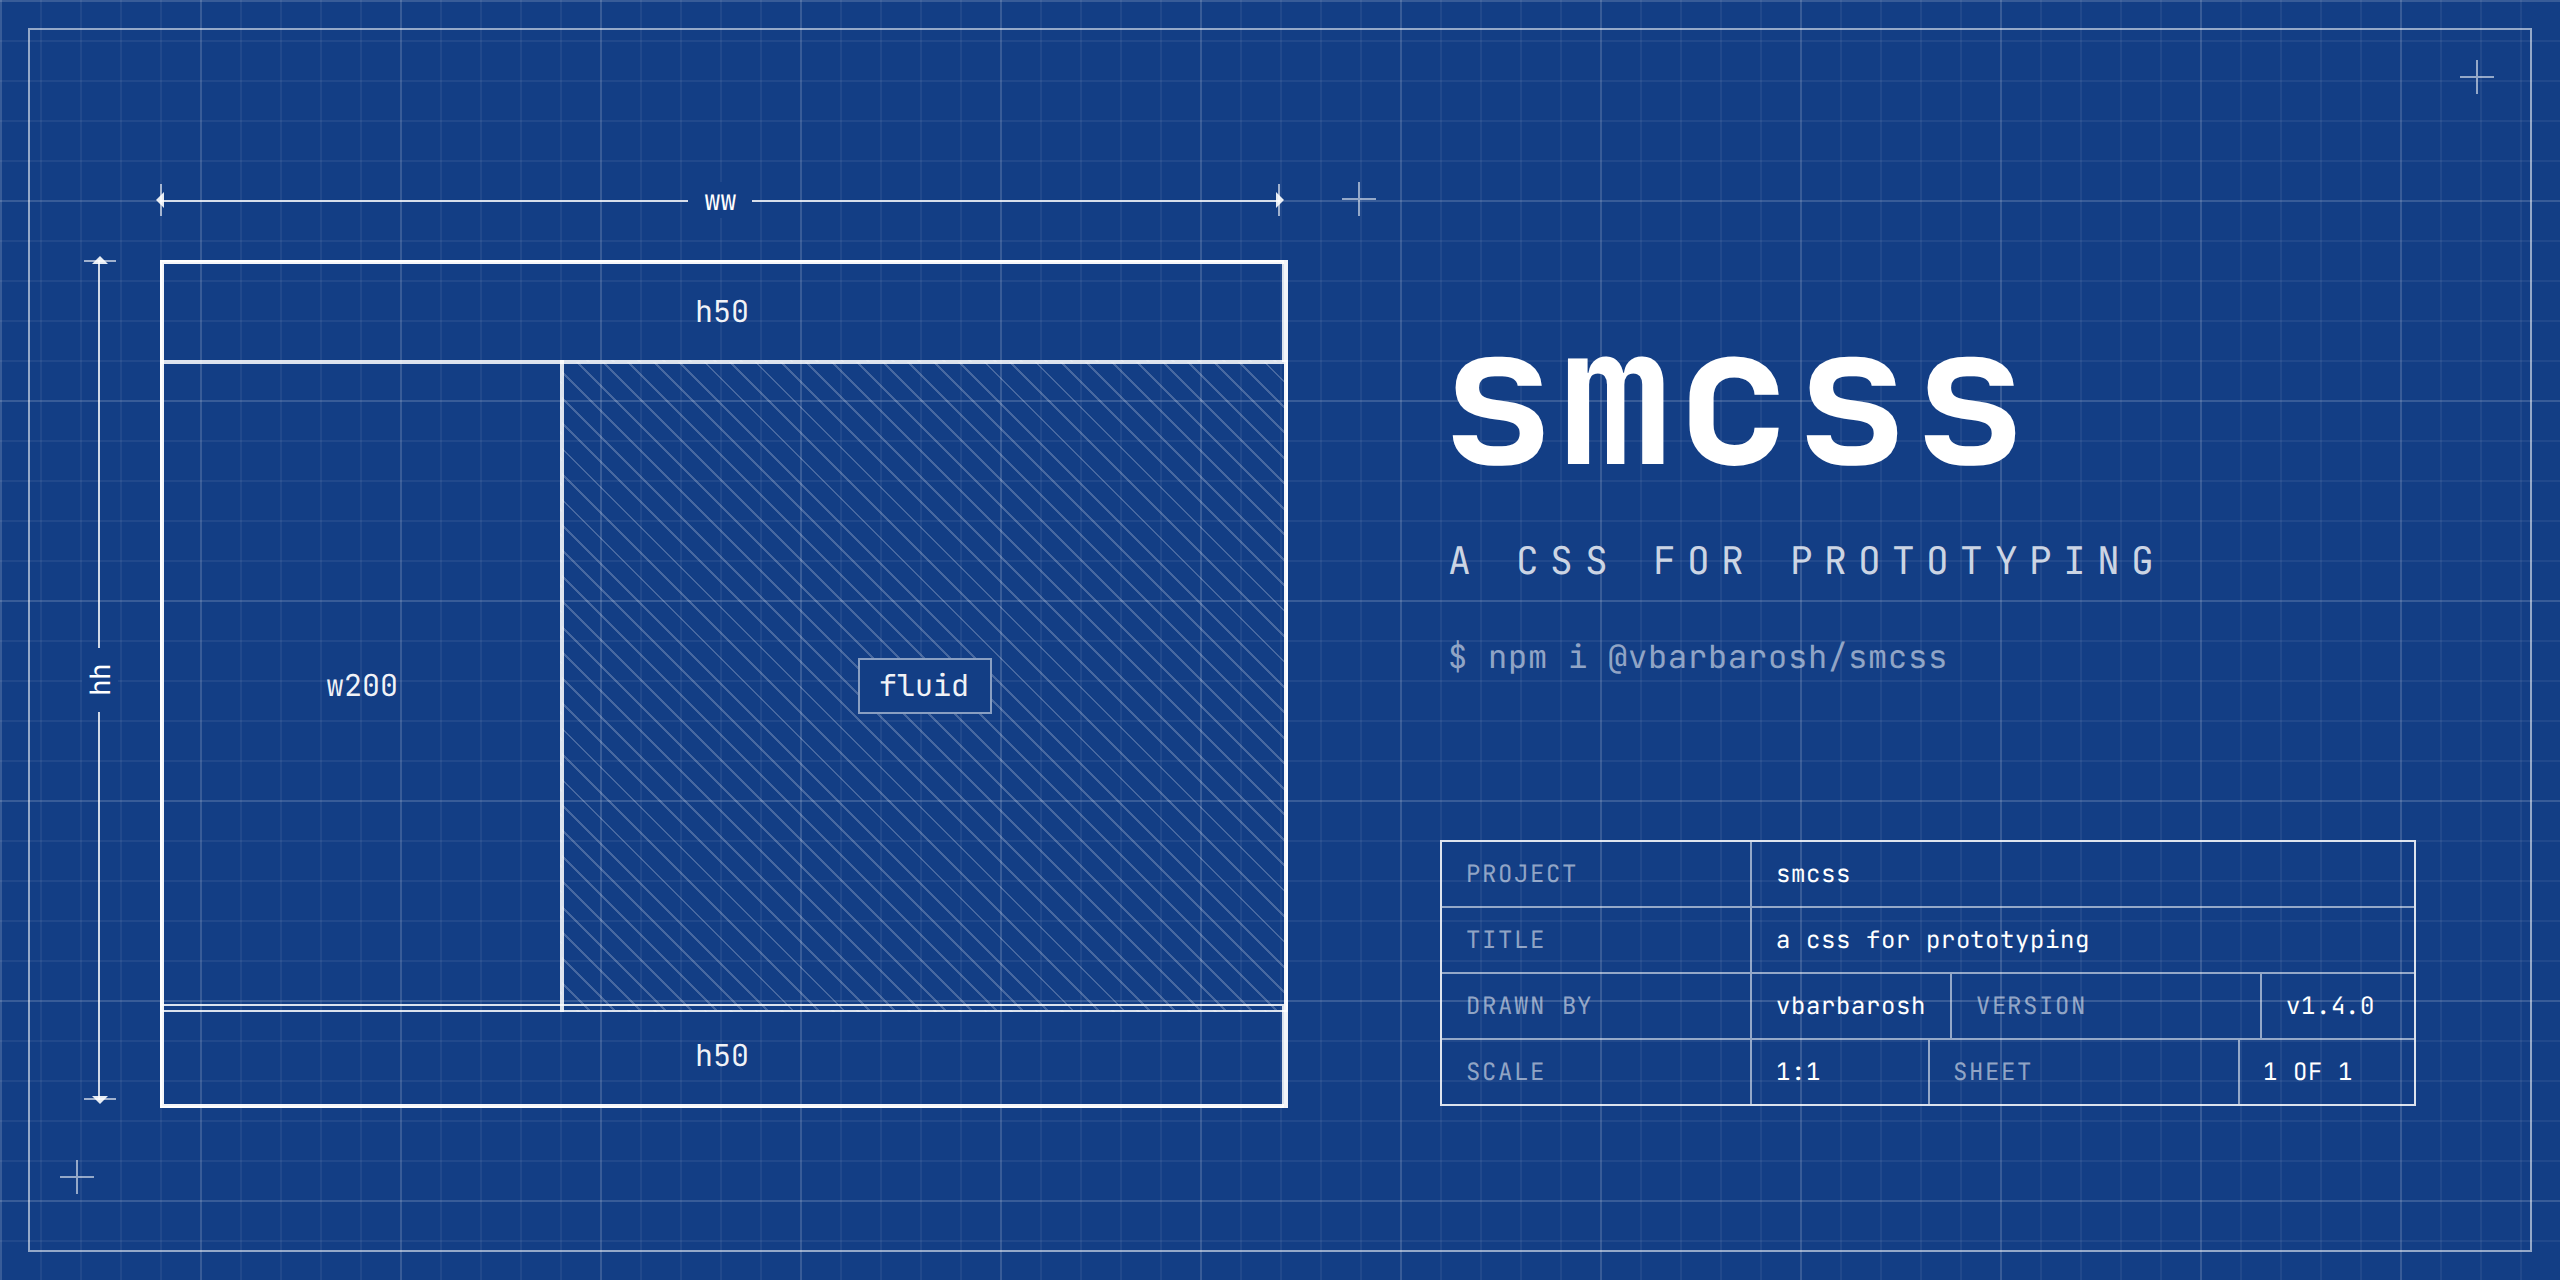
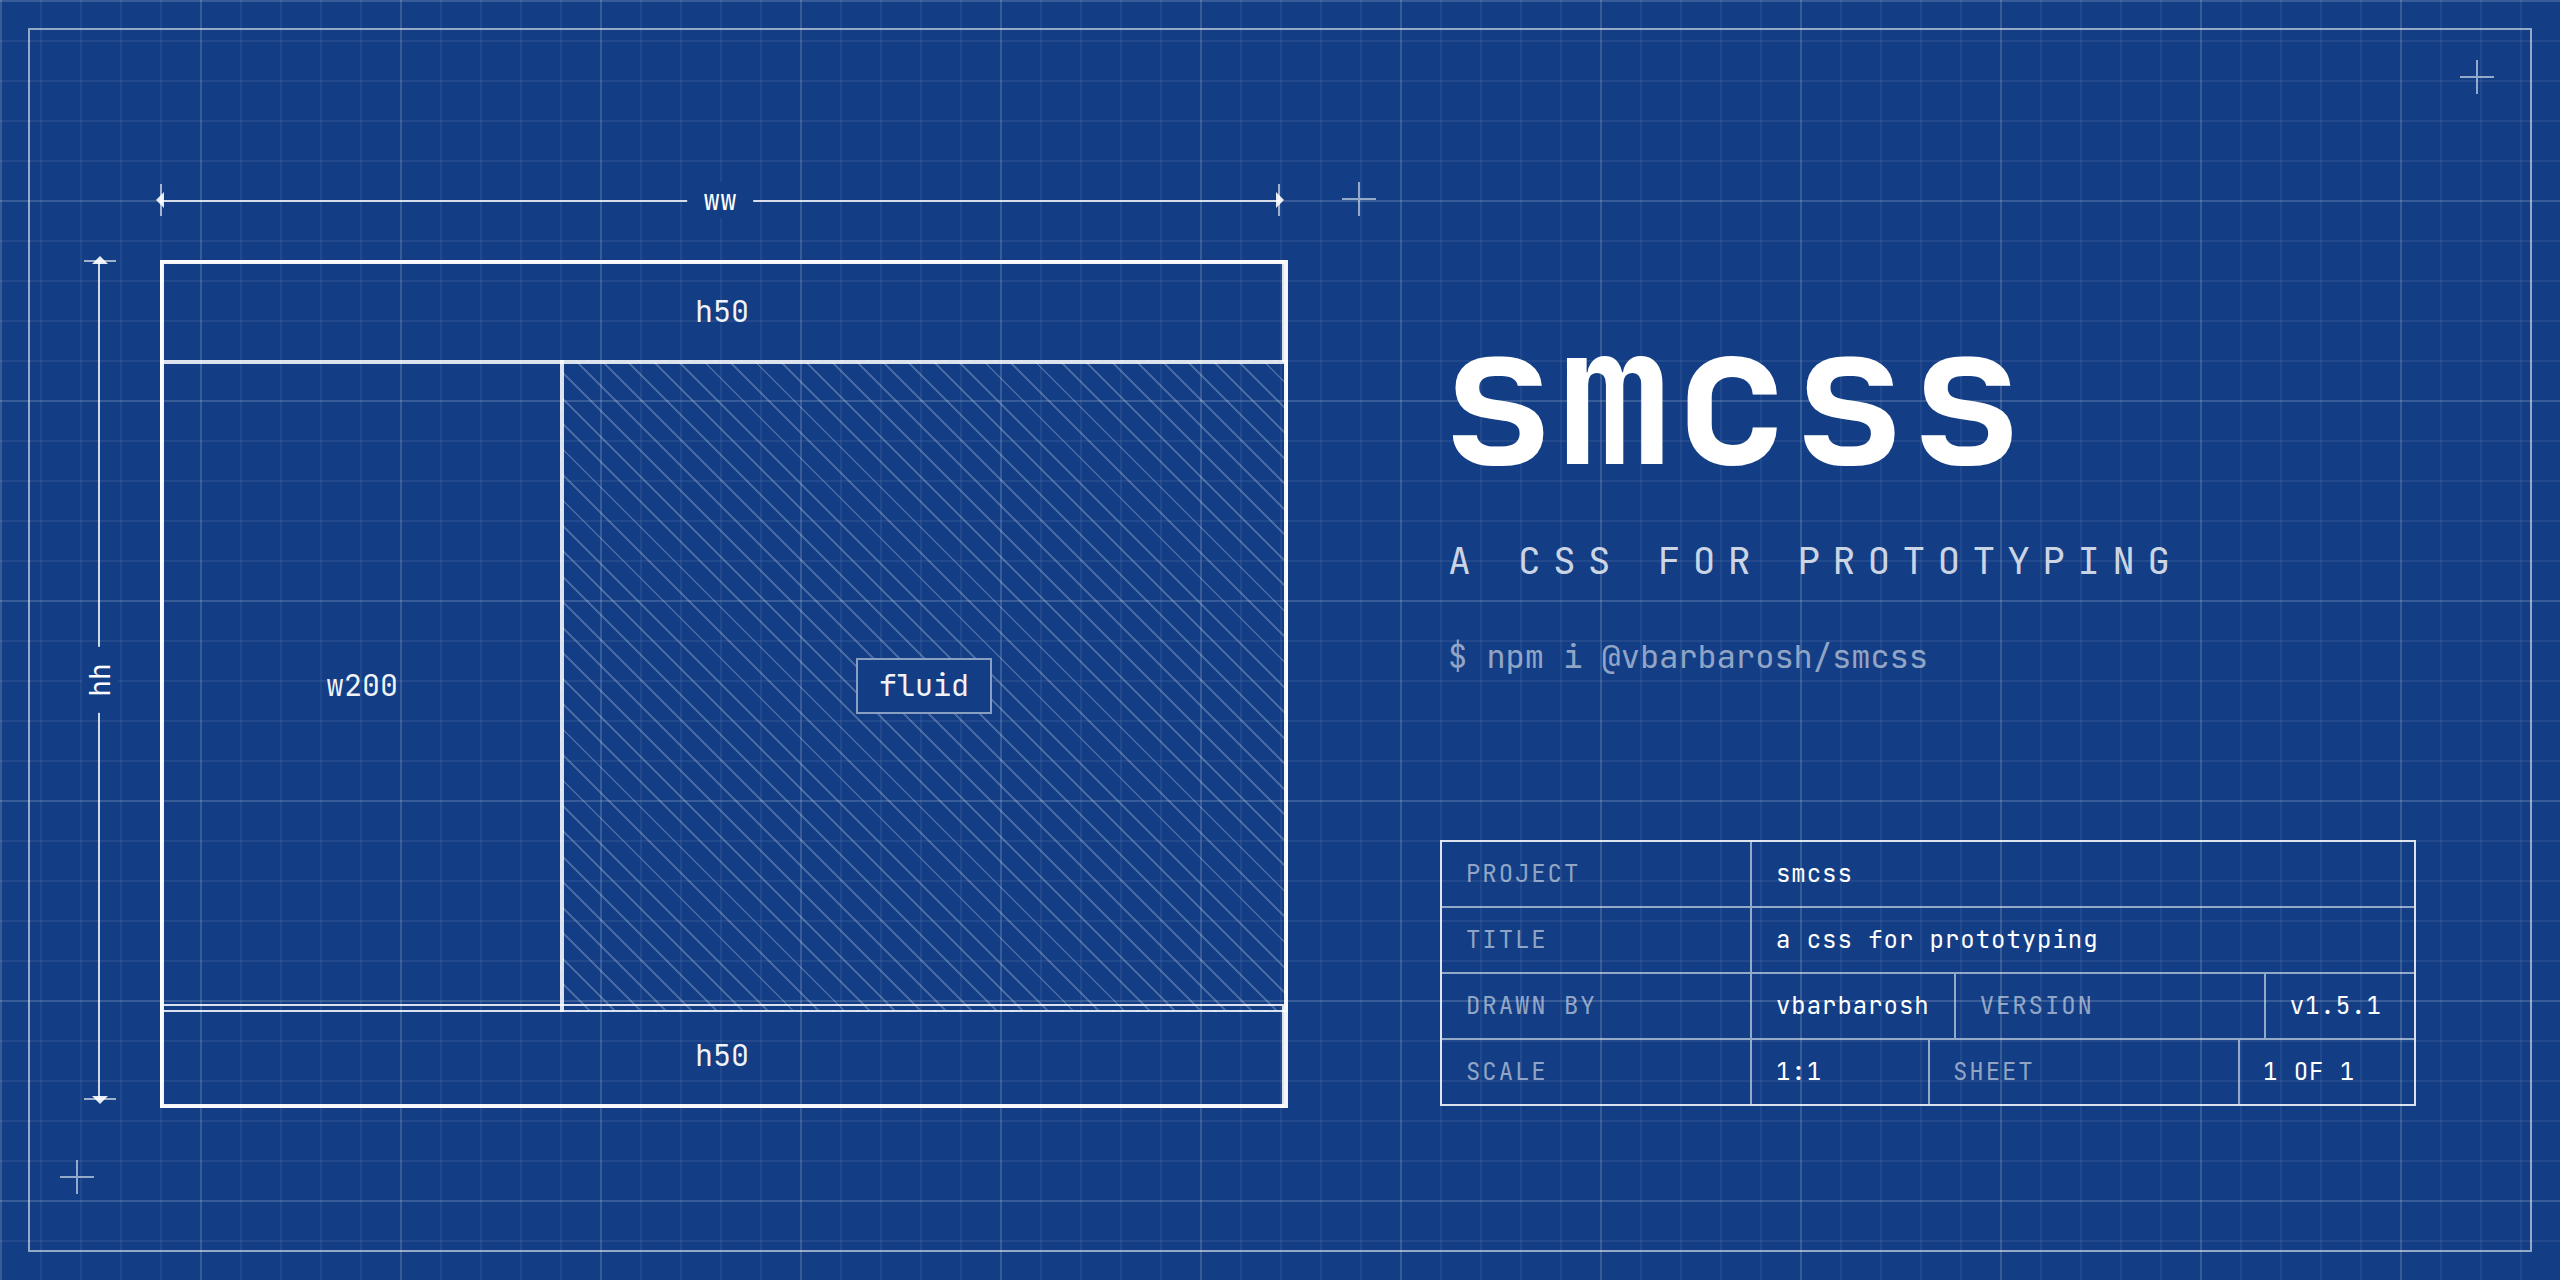
render cover.png from cover.html at release

diff --git a/img/cover.html b/img/cover.html
@@ -233,7 +233,7 @@ body {
             <div class="k">DRAWN BY</div>
             <div class="v">vbarbarosh</div>
             <div class="k">VERSION</div>
-            <div class="v">v1.4.0</div>
+            <div class="v">v1.5.1</div>
         </div>
         <div class="row">
             <div class="k">SCALE</div>